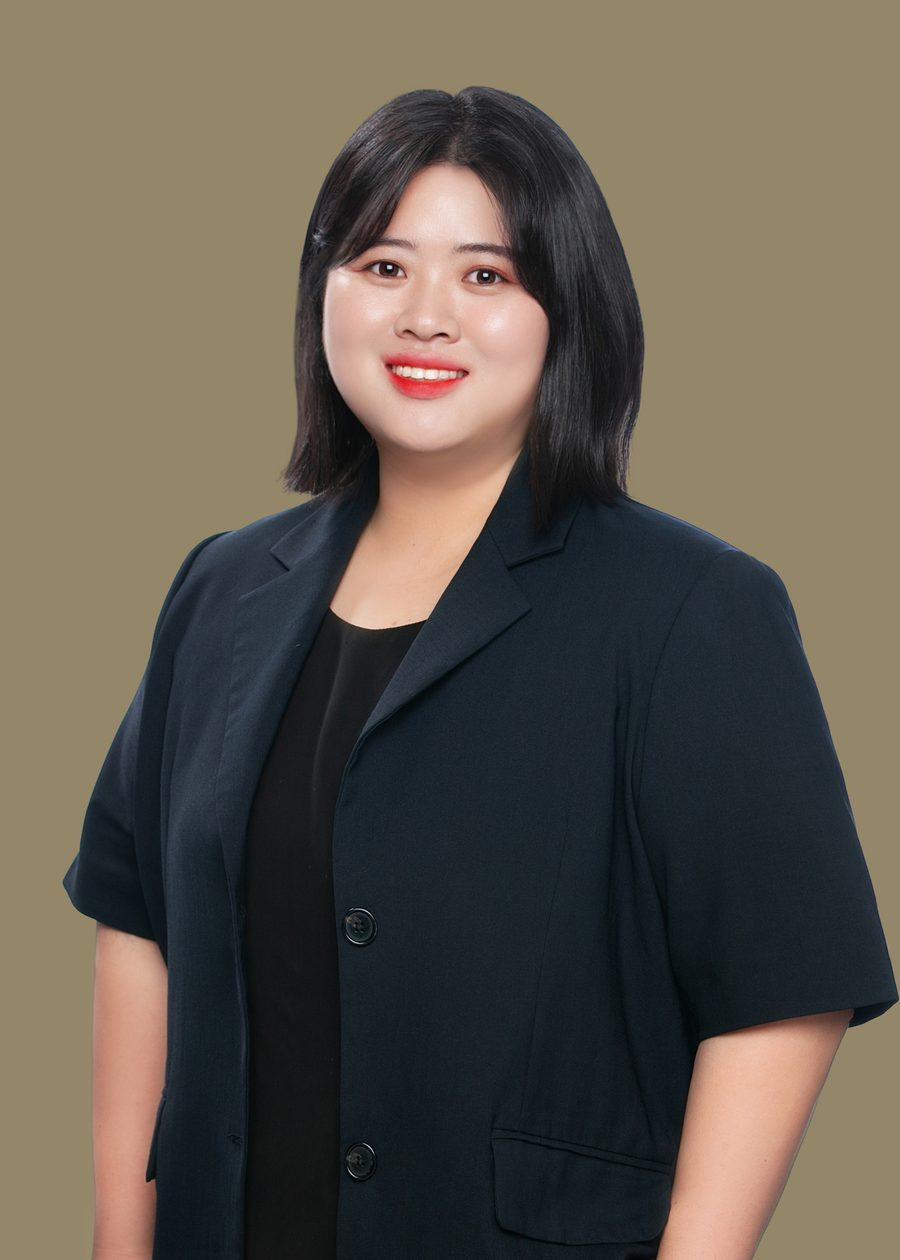
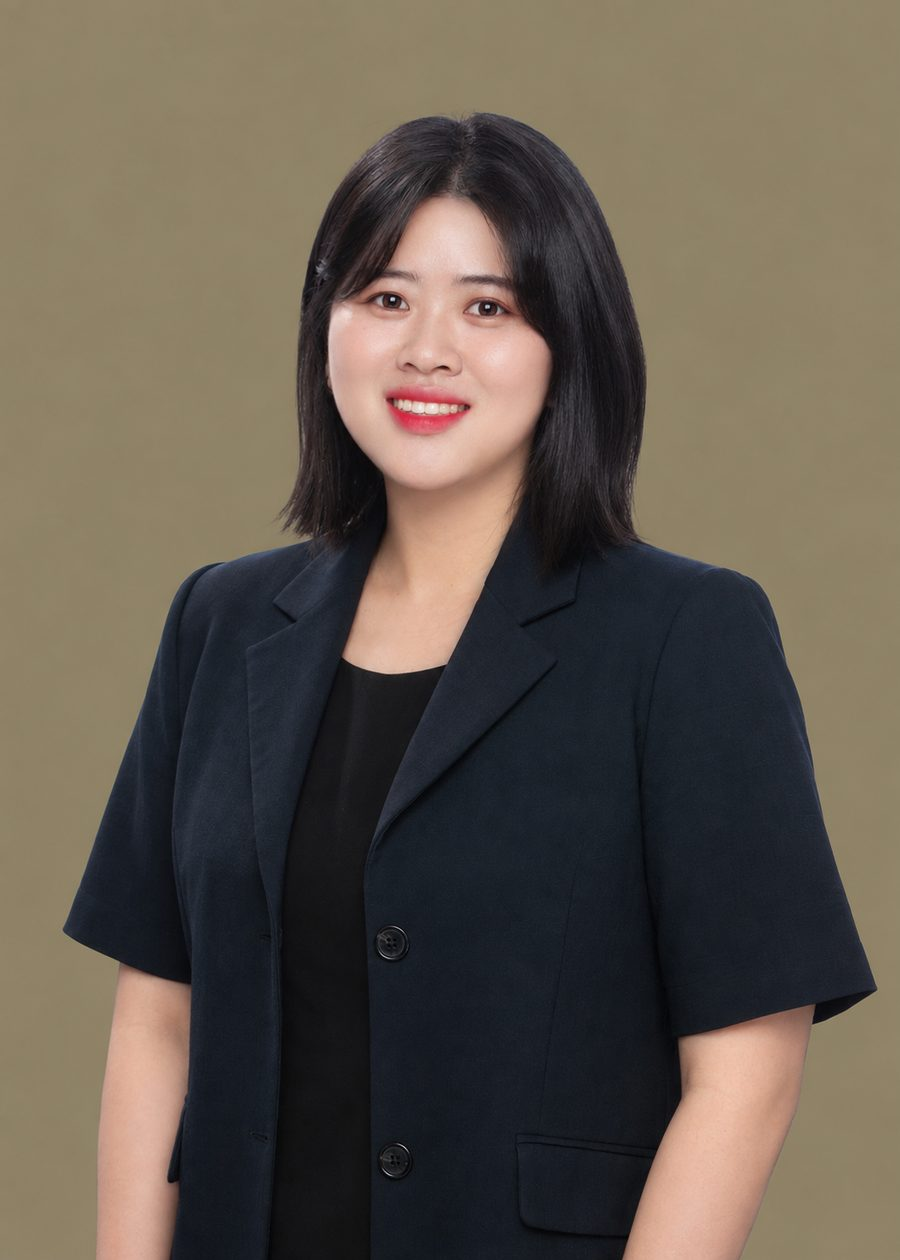
AMC Team 오탈자 정정 및 최주향 책임 사진 교체
- Client Management Team: YC Kim -> WC Kim (고객 요청 오탈자 정정)
  사진 파일명도 WC Kim.jpg 로 변경
- Claim Control Team: JH Choi 사진 신규 파일로 교체 (900x1260 규격 통일 적용)

Claude-Session: https://claude.ai/code/session_019kFABACQcSkxtkpfFJKvSk

diff --git a/app/page.tsx b/app/page.tsx
@@ -351,9 +351,9 @@ const teamGroups: PersonGroup[] = [
       },
       {
         id: 'cm-4',
-        name: 'YC Kim',
+        name: 'WC Kim',
         position: 'Construction / Engineering / Energy / Infrastructure',
-        image: '/people/team/YC Kim.jpg',
+        image: '/people/team/WC Kim.jpg',
       },
       {
         id: 'cm-5',
